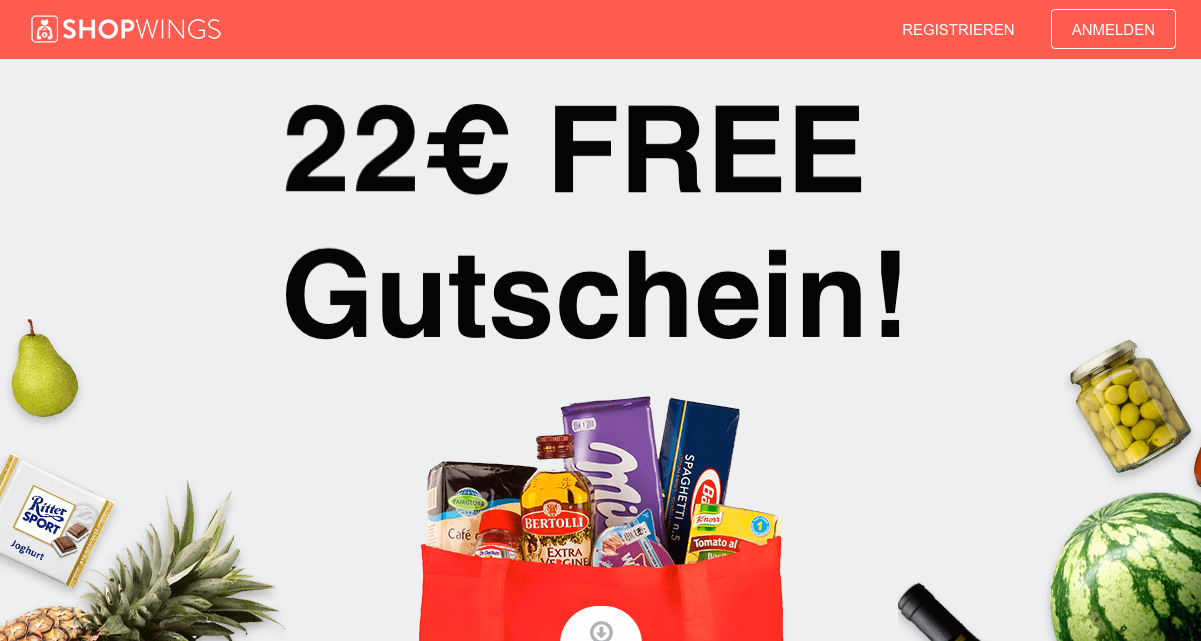
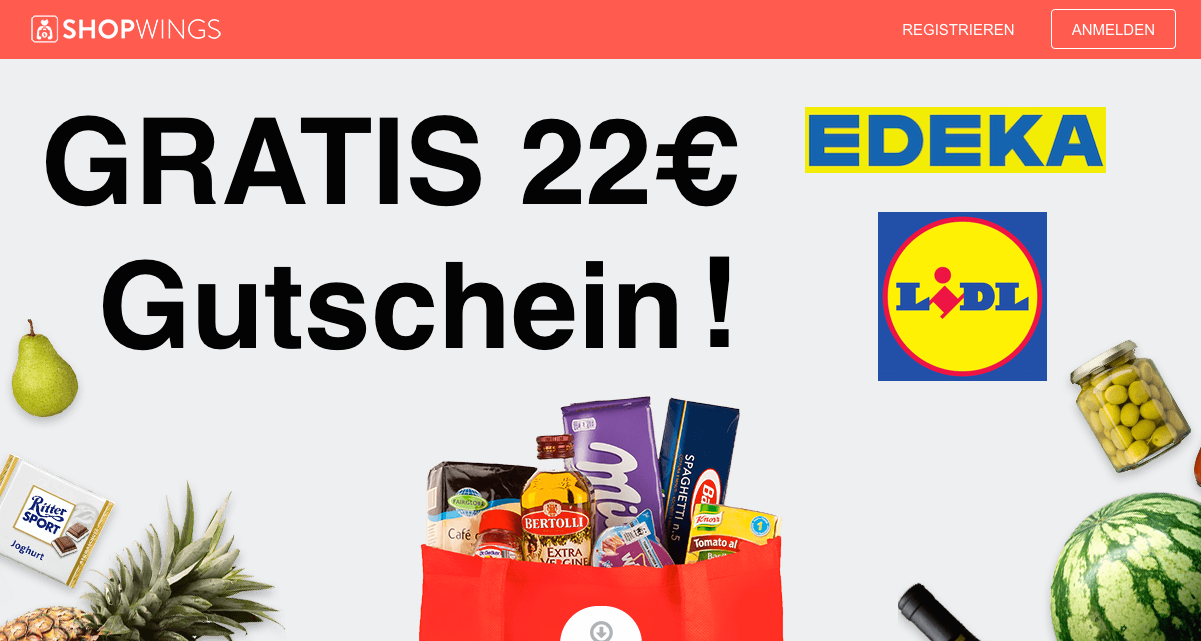
image

Changed region(s): [[0.0308, 0.156, 0.9242, 0.5928]]

diff --git a/shopwings/index.html b/shopwings/index.html
@@ -114,7 +114,7 @@
                     <iframe src="//www.facebook.com/plugins/share_button.php?href=http%3A%2F%2Fwww.matteogamba.net%2F%2Fblog%2F2014%2Fshopwings/&amp;width&amp;layout=button_count&amp;action=recommend&amp;show_faces=false&amp;share=false&amp;height=21" scrolling="no" frameborder="0" style="border:none; overflow:hidden; height:21px;" allowTransparency="true"></iframe>
                 </span>
                 <span class="twitter">
-                    <a href="http://twitter.com/share" class="twitter-share-button" data-text="€22 #Gutschein für @LIDL + @Edeka mit #Shopwings" data-url="http://www.matteogamba.net/shopwings/" data-via="sliver86"></a>
+                    <a href="http://twitter.com/share" class="twitter-share-button" data-text="€22 #Gutschein für @LIDL + @EDEKA_D mit #Shopwings" data-url="http://www.matteogamba.net/shopwings/" data-via="sliver86"></a>
                 </span>
                 <span class="google">
                     <g:plusone size="medium" href="http://www.matteogamba.net/shopwings/"></g:plusone>
@@ -162,7 +162,7 @@
                     </span>
                 </span>
                 <span class="twitter">
-                    <a href="http://twitter.com/share" class="twitter-share-button" data-text="#Gutschein für @LIDL + @Edeka mit #Shopwings" data-url="http://www.matteogamba.net/shopwings/" data-via="sliver86"></a>
+                    <a href="http://twitter.com/share" class="twitter-share-button" data-text="#Gutschein für @LIDL + @EDEKA_D mit #Shopwings" data-url="http://www.matteogamba.net/shopwings/" data-via="sliver86"></a>
                 </span>
                 <span class="google">
                     <g:plusone size="medium" href="http://www.matteogamba.net/shopwings/"></g:plusone>
